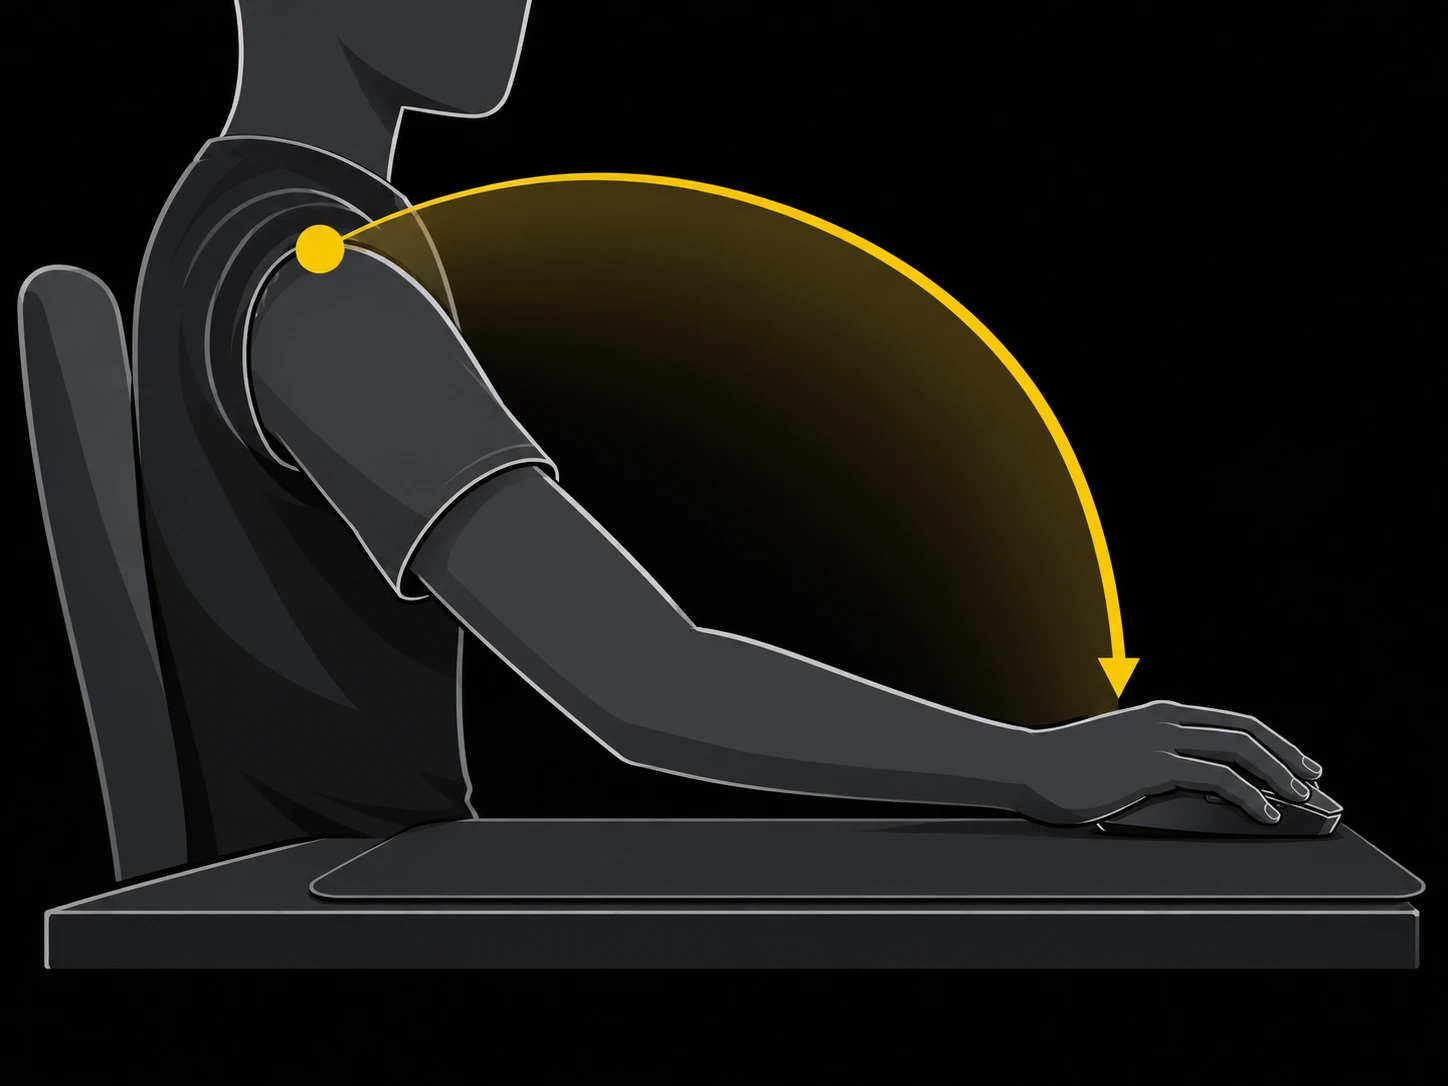
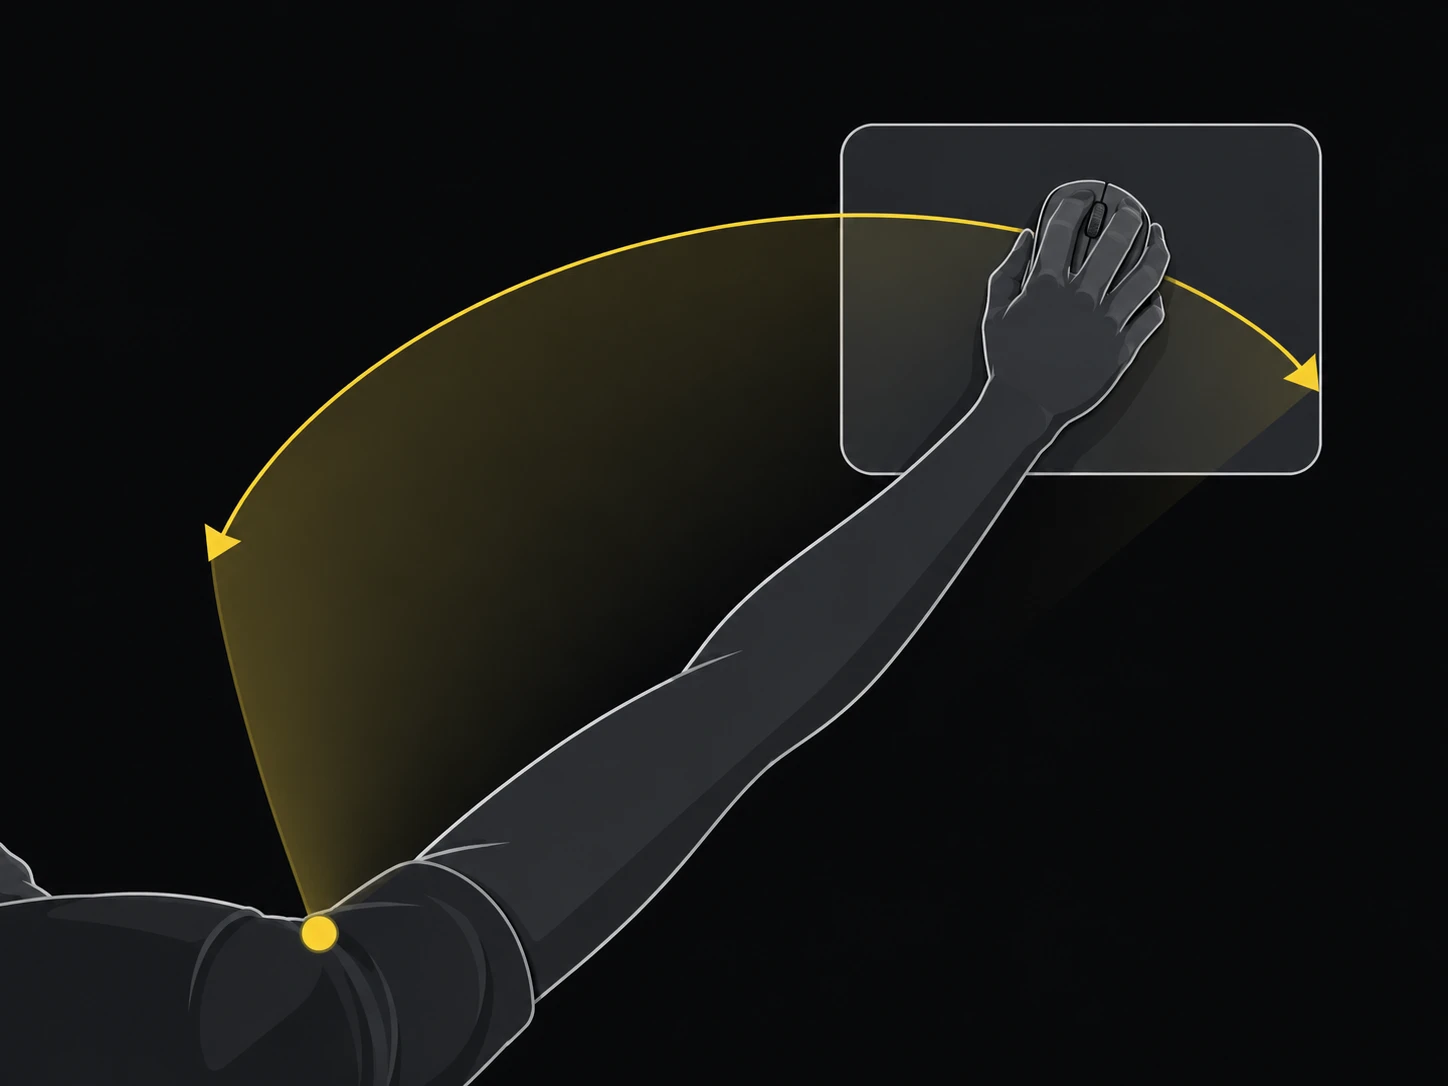
feat: final shoulder picture for the aim question

diff --git a/assets/questions/SOURCES.md b/assets/questions/SOURCES.md
@@ -13,8 +13,8 @@ No third-party artwork is used in the placeholders.
 ## Status per file
 
 - Final AI art (vectorised): `grip_palm`, `grip_claw`, `grip_fingertip`, `pivot_wrist`,
-  `pivot_fingers`, `pad_small`, `pad_medium`, `pad_large`.
-- Still placeholders: `pivot_arm`, `pivot_shoulder` (originals being regenerated), `not_sure`
+  `pivot_fingers`, `pivot_shoulder`, `pad_small`, `pad_medium`, `pad_large`.
+- Still placeholders: `pivot_arm` (original being regenerated), `not_sure`
   (no original).
 
 ## Regenerating from the originals
